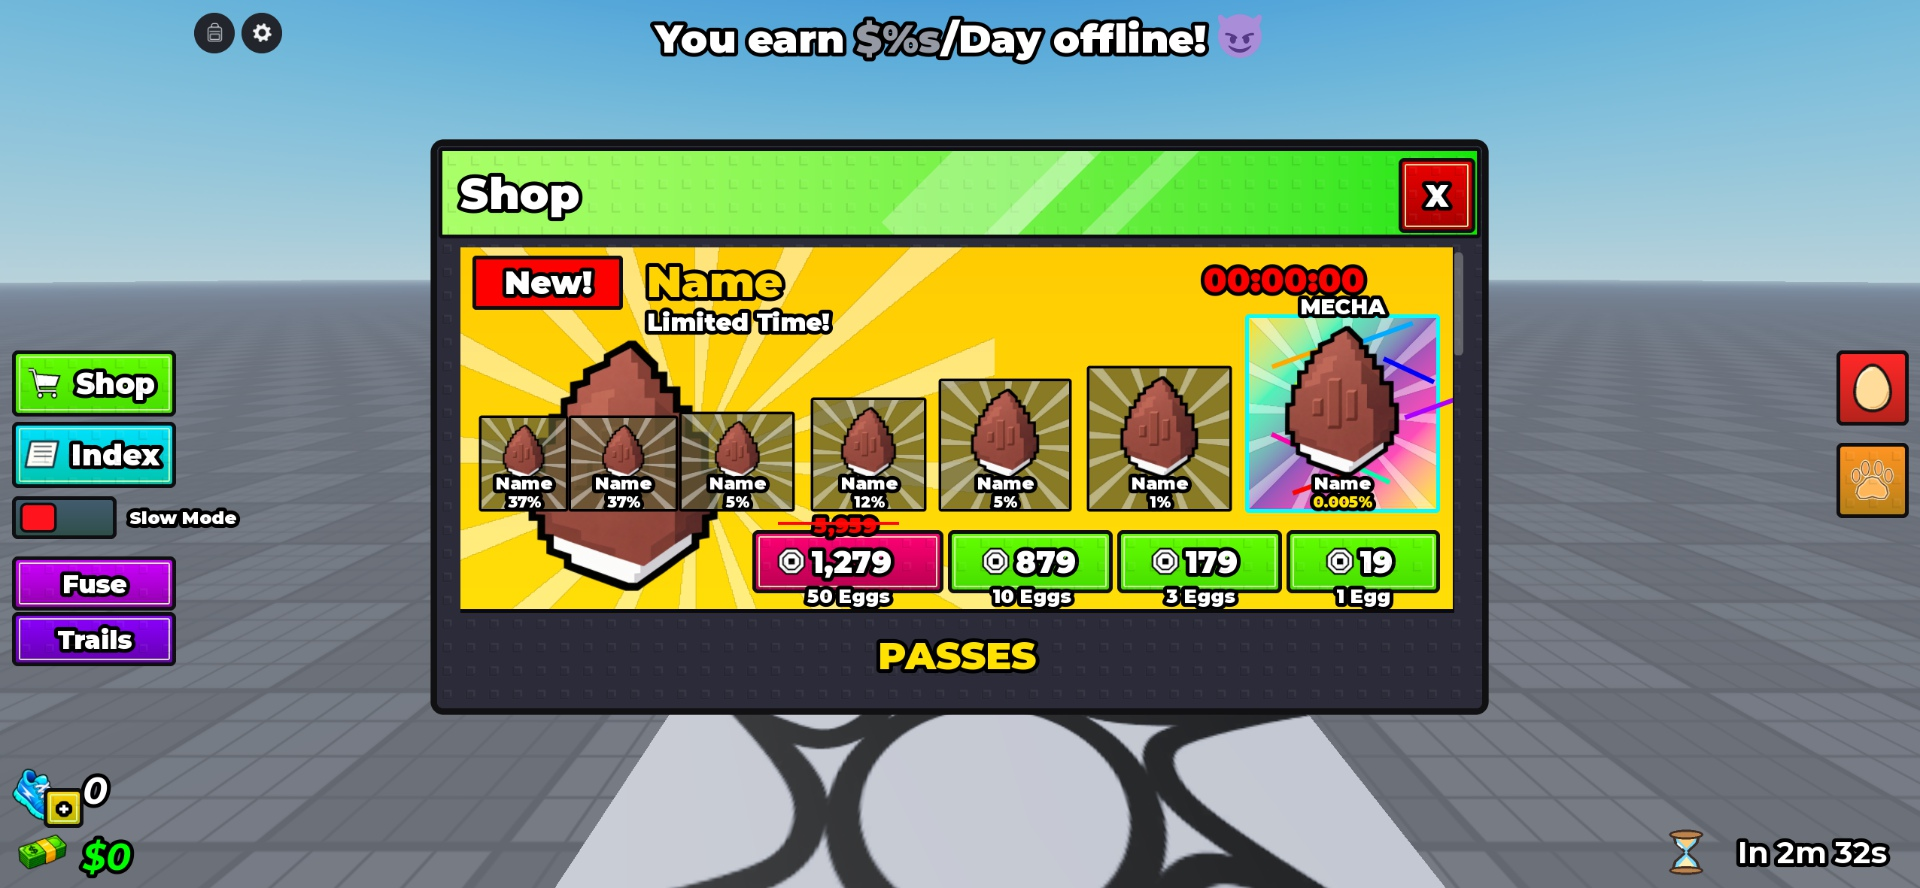
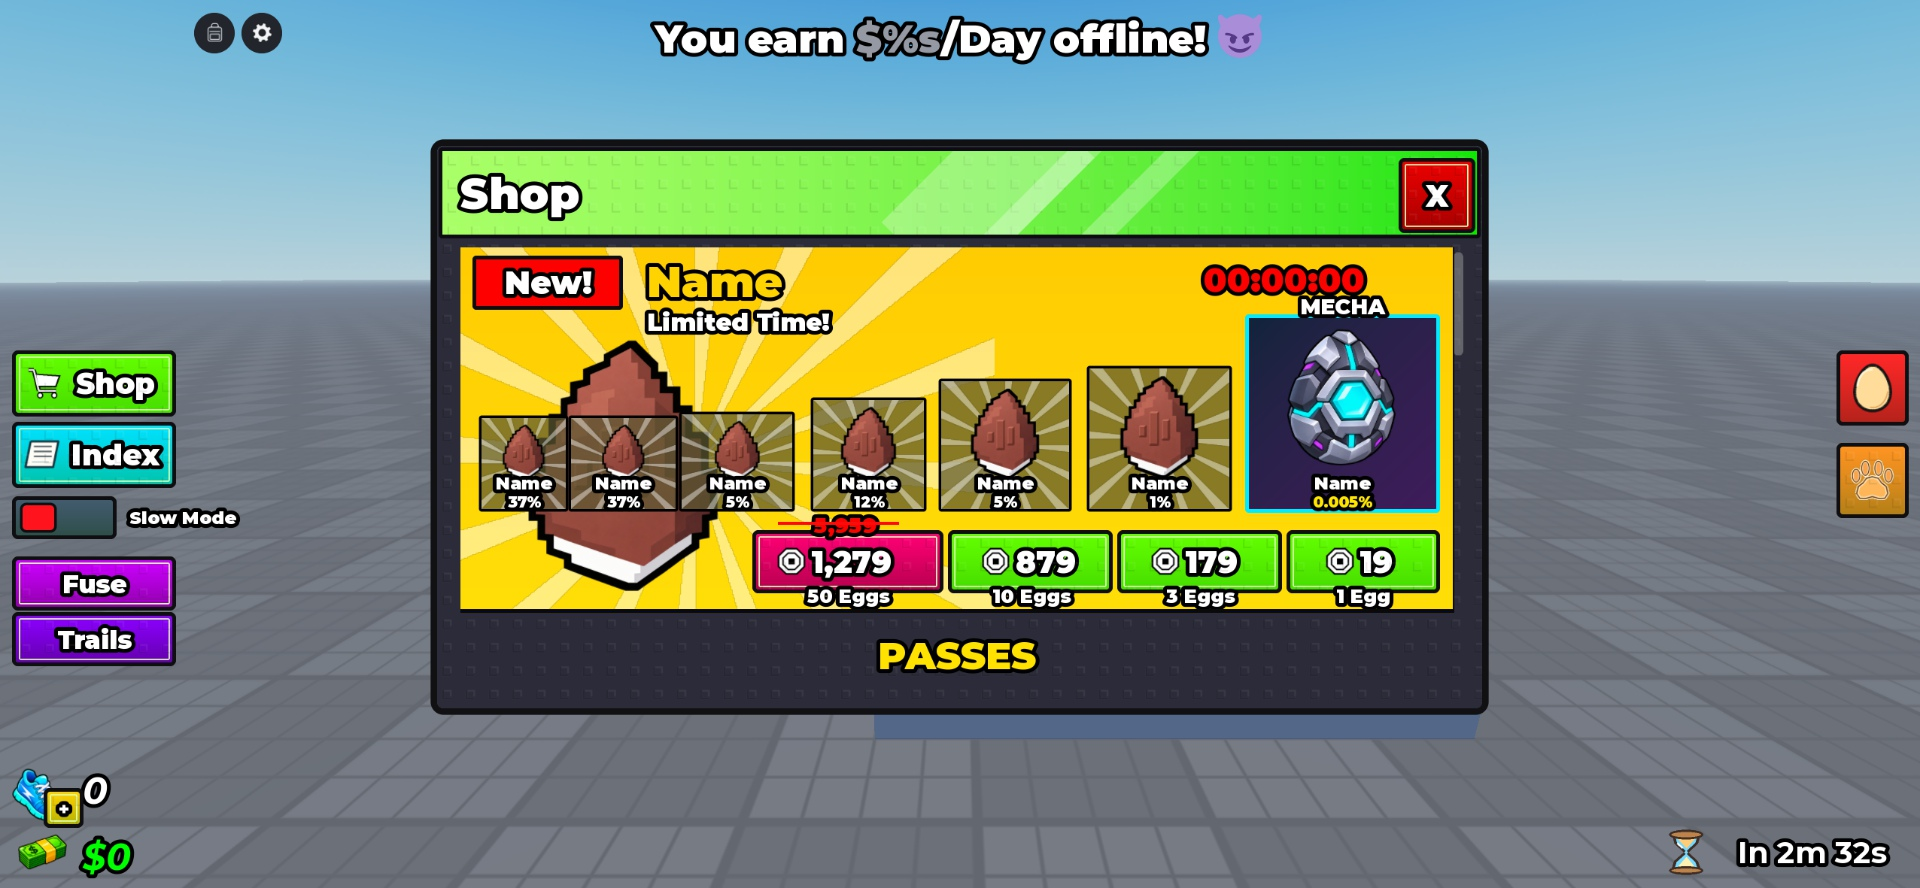
Redesign Mecha egg artwork and refresh shop preview

Changed region(s): [[0.2812, 0.7905, 0.7812, 1.0], [0.625, 0.3345, 0.75, 0.5777]]

diff --git a/packs/ui/steal-an-egg/VERIFICATION.md b/packs/ui/steal-an-egg/VERIFICATION.md
@@ -111,3 +111,7 @@ Selected slots narrowed the button to 68 design px while the label stayed 105 px
 ## Repository gallery refresh
 
 All 21 gallery views were recaptured from the corrected imported model in the same running Studio session and checked together. Source/native hashes remained valid. Existing Play mode and the selected Fuse state were restored after capture. Reference originals remain ignored. This draft is included in the existing private asset repository; it is not a public release.
+
+## Mecha artwork redesign — 2026-11-02
+
+Supersedes the Chance7 artwork and export counts above: 49,522 bytes, 1,828 edit-time descendants, nine panels. Pass 1 inspected the old shop screenshot and identified the repeated brown egg and nine arbitrary colored strokes. Pass 2 inspected the newly generated transparent armored egg, replaced Chance7.Egg and simplified its background. Pass 3 serialized/deserialized the model, confirmed identical controller source, ran the imported model in Play, verified ImageLabel.IsLoaded=true and absence of Lightning1, and reviewed the full 1920x888 shop capture at normal size. Updated previews/shop.jpg is actual MCP capture. Card labels and odds remain legible and unobstructed. Static artwork only; no controller or animation changes. Previous device/input limitations still apply.

diff --git a/packs/ui/steal-an-egg/README.md b/packs/ui/steal-an-egg/README.md
@@ -117,7 +117,7 @@ steal-an-egg/
 
 ## Dependencies and verification
 
-The native model has **1,838 descendants** and its controller survived Studio serialization/deserialization unchanged. Imported-model Play checks covered panel routes, rapid interruptions, sliders, toggles, vertical/horizontal scrolling, fuse confirmation/result, pet equip and egg-growth demos. Six visual review passes corrected geometry, fonts, artwork, pass colors, cash cards and missing glyphs.
+The native model has **1,828 descendants** and its controller survived Studio serialization/deserialization unchanged. Imported-model Play checks covered panel routes, rapid interruptions, sliders, toggles, vertical/horizontal scrolling, fuse confirmation/result, pet equip and egg-growth demos. Six visual review passes corrected geometry, fonts, artwork, pass colors, cash cards and missing glyphs.
 
 **Desktop mouse only:** verified at 1701.33 × 787.33 UI pixels. The MCP schemas expose no device/viewport setters, so phone, tablet, reference-size, other desktop, console, resize and orientation tests remain blocked. Compact layout code is included but unverified. [Full coverage and limitations](VERIFICATION.md).
 

diff --git a/packs/ui/steal-an-egg/assets/generation-notes.md b/packs/ui/steal-an-egg/assets/generation-notes.md
@@ -37,3 +37,7 @@ Every generated icon was visually inspected. Significant revisions included the 
 ## HUD revision 0.1.1
 
 make_hud_icons.py draws the replacement egg, paw, index page, top-bar gear and backpack as antialiased geometry. These five sources replace the HUD-only versions; pet artwork remains separate.
+
+## Mecha egg redesign
+
+Built-in image_gen generated mecha-egg.png on 2026-11-02. Uploaded as rbxassetid://130327488977309. User requested a complete redesign and removal of squiggly decoration. Final brief: isolated transparent armored egg, chunky silver/gunmetal plates, cyan hexagonal power core, limited violet accents, bold clean silhouette readable at 110px; no text, frame, lightning, scribbles, limbs or external shadow. Original generated PNG retained without image postprocessing. The native card uses a dark blue/violet gradient and cyan outline; nine Lightning frames and its sunburst were removed. This is a user-directed design departure from the original reference.
